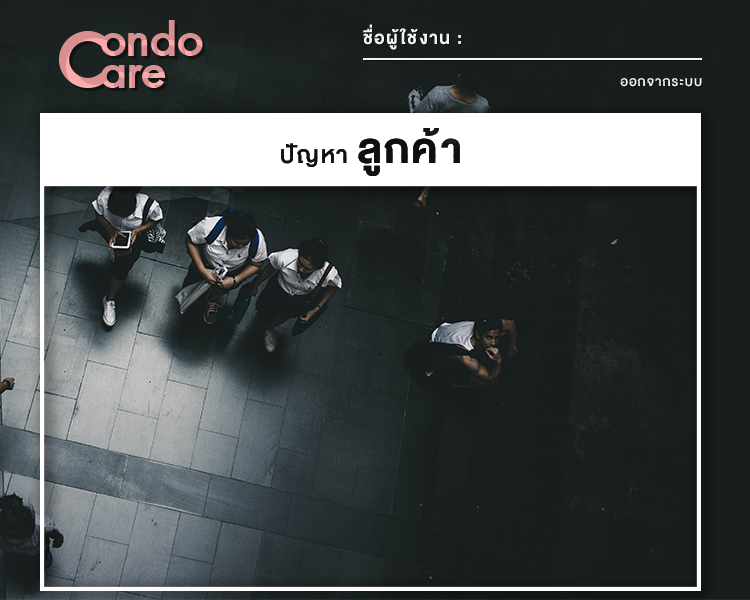
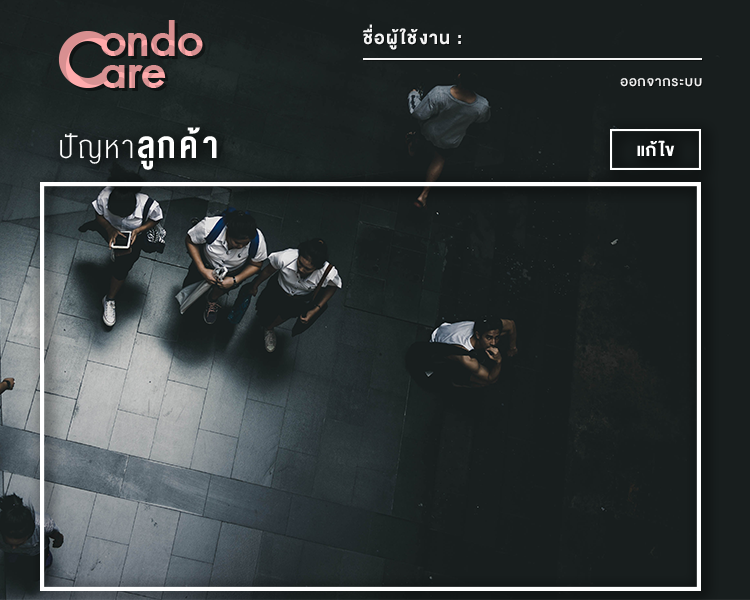
เพิ่มรูป + หน้า config

Changed region(s): [[0.0307, 0.18, 0.9507, 0.33]]

diff --git a/Condominium/src/condominium/Condominium.java b/Condominium/src/condominium/Condominium.java
@@ -82,6 +82,11 @@ public class Condominium extends javax.swing.JFrame {
         profileBtn.setBackground(new Color(0, 0, 0, 0));
         userShow.setBackground(new Color(0, 0, 0, 0));
         reportBtn.setBackground(new Color(0, 0, 0, 0));
+        configTopic.setBackground(new Color(0, 0, 0, 0));
+        configRoom.setBackground(new Color(0, 0, 0, 0));
+        configDetail.setBackground(new Color(0, 0, 0, 0));
+        configType.setBackground(new Color(0, 0, 0, 0));
+        searchRoom.setBackground(new Color(0, 0, 0, 0));
 
     }
 
@@ -95,6 +100,20 @@ public class Condominium extends javax.swing.JFrame {
     private void initComponents() {
 
         adReport = new javax.swing.JPanel();
+        adConfig = new javax.swing.JPanel();
+        searchRoombtn = new javax.swing.JButton();
+        okConfig = new javax.swing.JButton();
+        cancleConfig = new javax.swing.JButton();
+        deleteReport = new javax.swing.JButton();
+        configTopic = new javax.swing.JTextField();
+        configRoom = new javax.swing.JTextField();
+        configDetail = new javax.swing.JTextField();
+        configType = new javax.swing.JTextField();
+        configUser = new javax.swing.JTextField();
+        searchRoom = new javax.swing.JTextField();
+        statusBox = new javax.swing.JComboBox<>();
+        manEmpbox = new javax.swing.JComboBox<>();
+        adConfigBg = new javax.swing.JLabel();
         home1 = new javax.swing.JButton();
         jScrollPane2 = new javax.swing.JScrollPane();
         reportTable = new javax.swing.JTable();
@@ -165,6 +184,63 @@ public class Condominium extends javax.swing.JFrame {
 
         adReport.setLayout(new org.netbeans.lib.awtextra.AbsoluteLayout());
 
+        adConfig.setLayout(new org.netbeans.lib.awtextra.AbsoluteLayout());
+
+        searchRoombtn.setText("\n");
+        searchRoombtn.setBorder(null);
+        searchRoombtn.setContentAreaFilled(false);
+        adConfig.add(searchRoombtn, new org.netbeans.lib.awtextra.AbsoluteConstraints(490, 70, 70, 30));
+
+        okConfig.setContentAreaFilled(false);
+        adConfig.add(okConfig, new org.netbeans.lib.awtextra.AbsoluteConstraints(50, 360, 70, 30));
+
+        cancleConfig.setContentAreaFilled(false);
+        cancleConfig.addActionListener(new java.awt.event.ActionListener() {
+            public void actionPerformed(java.awt.event.ActionEvent evt) {
+                cancleConfigActionPerformed(evt);
+            }
+        });
+        adConfig.add(cancleConfig, new org.netbeans.lib.awtextra.AbsoluteConstraints(140, 360, 80, 30));
+
+        deleteReport.setContentAreaFilled(false);
+        adConfig.add(deleteReport, new org.netbeans.lib.awtextra.AbsoluteConstraints(540, 360, 70, 30));
+
+        configTopic.setEditable(false);
+        configTopic.setBorder(null);
+        adConfig.add(configTopic, new org.netbeans.lib.awtextra.AbsoluteConstraints(170, 152, 270, 30));
+
+        configRoom.setEditable(false);
+        configRoom.setBorder(null);
+        adConfig.add(configRoom, new org.netbeans.lib.awtextra.AbsoluteConstraints(130, 192, 100, 30));
+
+        configDetail.setEditable(false);
+        configDetail.setBorder(null);
+        adConfig.add(configDetail, new org.netbeans.lib.awtextra.AbsoluteConstraints(50, 270, 400, 70));
+
+        configType.setEditable(false);
+        configType.setBorder(null);
+        adConfig.add(configType, new org.netbeans.lib.awtextra.AbsoluteConstraints(490, 172, 120, 30));
+
+        configUser.setEditable(false);
+        configUser.setBorder(null);
+        adConfig.add(configUser, new org.netbeans.lib.awtextra.AbsoluteConstraints(340, 192, 100, 30));
+
+        searchRoom.setBorder(null);
+        adConfig.add(searchRoom, new org.netbeans.lib.awtextra.AbsoluteConstraints(280, 62, 200, 30));
+
+        statusBox.setModel(new javax.swing.DefaultComboBoxModel<>(new String[] { "New", "Actualize", "Success", " " }));
+        statusBox.setBorder(null);
+        adConfig.add(statusBox, new org.netbeans.lib.awtextra.AbsoluteConstraints(490, 222, 120, 30));
+
+        manEmpbox.setBorder(null);
+        adConfig.add(manEmpbox, new org.netbeans.lib.awtextra.AbsoluteConstraints(490, 280, 120, 60));
+
+        adConfigBg.setIcon(new javax.swing.ImageIcon("C:\\Users\\BoomGDH559\\Desktop\\Condominium\\Condominium\\src\\condominium\\adConfig.png")); // NOI18N
+        adConfigBg.setText("jLabel1");
+        adConfig.add(adConfigBg, new org.netbeans.lib.awtextra.AbsoluteConstraints(0, 0, 660, 410));
+
+        adReport.add(adConfig, new org.netbeans.lib.awtextra.AbsoluteConstraints(40, 180, 660, 410));
+
         home1.setContentAreaFilled(false);
         home1.addActionListener(new java.awt.event.ActionListener() {
             public void actionPerformed(java.awt.event.ActionEvent evt) {
@@ -188,7 +264,7 @@ public class Condominium extends javax.swing.JFrame {
 
         adReport.add(jScrollPane2, new org.netbeans.lib.awtextra.AbsoluteConstraints(40, 180, 660, 410));
 
-        adReportBg.setIcon(new javax.swing.ImageIcon("C:\\Users\\BoomGDH559\\Desktop\\Condominium\\Condominium\\src\\condominium\\Admin-report.png")); // NOI18N
+        adReportBg.setIcon(new javax.swing.ImageIcon(getClass().getResource("/condominium/Admin-report.png"))); // NOI18N
         adReportBg.setText("jLabel2");
         adReport.add(adReportBg, new org.netbeans.lib.awtextra.AbsoluteConstraints(0, 0, 750, 600));
 
@@ -659,6 +735,10 @@ public class Condominium extends javax.swing.JFrame {
         adIndex.setVisible(false);
     }//GEN-LAST:event_adreportbutActionPerformed
 
+    private void cancleConfigActionPerformed(java.awt.event.ActionEvent evt) {//GEN-FIRST:event_cancleConfigActionPerformed
+        // TODO add your handling code here:
+    }//GEN-LAST:event_cancleConfigActionPerformed
+
     /**
      * @param args the command line arguments
      */
@@ -700,6 +780,8 @@ public class Condominium extends javax.swing.JFrame {
     // Variables declaration - do not modify//GEN-BEGIN:variables
     private javax.swing.JLabel Background;
     private javax.swing.JPanel Login;
+    private javax.swing.JPanel adConfig;
+    private javax.swing.JLabel adConfigBg;
     private javax.swing.JPanel adIndex;
     private javax.swing.JPanel adRegister;
     private javax.swing.JPanel adReport;
@@ -708,8 +790,15 @@ public class Condominium extends javax.swing.JFrame {
     private javax.swing.JButton adregisbut;
     private javax.swing.JButton adreportbut;
     private javax.swing.JButton cancel_report;
+    private javax.swing.JButton cancleConfig;
     private javax.swing.JButton clear;
+    private javax.swing.JTextField configDetail;
+    private javax.swing.JTextField configRoom;
+    private javax.swing.JTextField configTopic;
+    private javax.swing.JTextField configType;
+    private javax.swing.JTextField configUser;
     private com.toedter.calendar.JDateChooser date;
+    private javax.swing.JButton deleteReport;
     private javax.swing.JTextField email;
     private javax.swing.JTextField firstname;
     private javax.swing.JButton home;
@@ -720,7 +809,9 @@ public class Condominium extends javax.swing.JFrame {
     private javax.swing.JTextArea jTextArea1;
     private javax.swing.JTextField lastname;
     private javax.swing.JButton login;
+    private javax.swing.JComboBox<String> manEmpbox;
     private javax.swing.JButton ok;
+    private javax.swing.JButton okConfig;
     private javax.swing.JPasswordField password;
     private javax.swing.JLabel problemType;
     private javax.swing.JComboBox<String> problemTypeCB;
@@ -735,7 +826,10 @@ public class Condominium extends javax.swing.JFrame {
     private javax.swing.JTable reportTable;
     private javax.swing.JButton save;
     private javax.swing.JButton save_report;
+    private javax.swing.JTextField searchRoom;
+    private javax.swing.JButton searchRoombtn;
     private javax.swing.JTextField status;
+    private javax.swing.JComboBox<String> statusBox;
     private javax.swing.JTextField userId;
     private javax.swing.JPanel userIndex;
     private javax.swing.JLabel userIndexBg;
